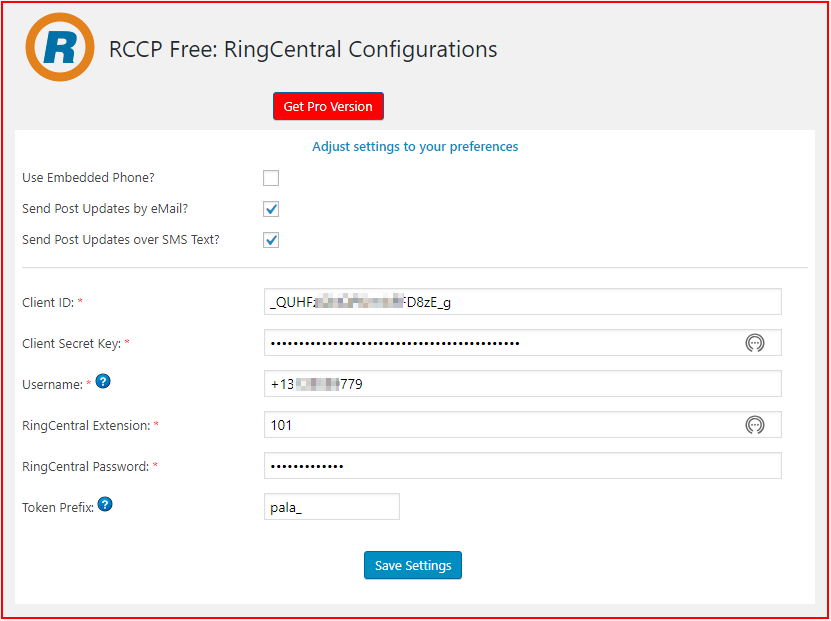
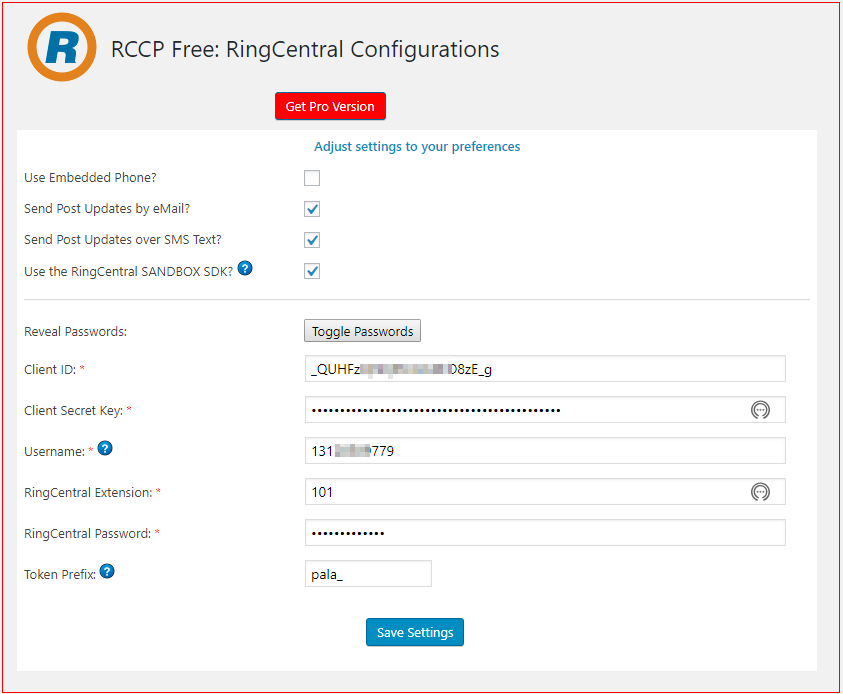
New screen shots, added password toggle
Preparing for submission to WordPress Plugin repo

diff --git a/js/ringcentral-scripts.js b/js/ringcentral-scripts.js
@@ -8,3 +8,25 @@ function isNumberKey(evt){
         return false;
             return true;
 }
+
+function reveal_it() {
+	var x = document.getElementById("myClientSecret");
+    var y = document.getElementById("myRCPassword");    
+	if (x.type === "password") {
+	  x.type = "text";
+	} 
+	if (y.type === "password") {
+		y.type = "text";
+	} 
+}
+
+function hide_it() {
+	var x = document.getElementById("myClientSecret");
+    var y = document.getElementById("myRCPassword");    
+	if (x.type === "text") {	  
+	  x.type = "password";
+	}
+	if (y.type === "text") {
+	    y.type = "password";
+	}
+}

diff --git a/ringcentral.php b/ringcentral.php
@@ -23,9 +23,6 @@ GNU General Public License for more details.
 See License URI for full details.
 */
 
-// error_reporting(E_ALL);
-// ini_set('display_errors', 0);
-
 /* ============================== */
 /* Set RingCental Constant values */
 /* ============================== */
@@ -49,11 +46,6 @@ if(!defined('RINGCENTRAL_PRO_URL')){
 if(!defined('RINGCENTRAL_LOGO')){
     define ('RINGCENTRAL_LOGO', RINGCENTRAL_PLUGINURL . 'images/ringcentral-logo.png' ) ;
 }
-/* ============================================ */
-if(!defined('RINGCENTRAL_SPACER')){
-    $spacer = "<br/>&nbsp; &nbsp; &nbsp; &nbsp; &nbsp; &nbsp; &nbsp; &nbsp; &nbsp; &nbsp; &nbsp; &nbsp; " ;
-    define ('RINGCENTRAL_SPACER', $spacer) ;
-}
 
 /* ================================= */
 /* set ring central supporting cast  */
@@ -70,9 +62,6 @@ function ringcentral_css_add_script() {
 }
 
 add_action('init', 'ringcentral_css_add_script');
-
-// call add action func on menu building function above.
-add_action('admin_menu', 'ringcentral_menu'); 
 
 /* ========================================= */
 /* Make top level menu                       */
@@ -125,6 +114,10 @@ function ringcentral_menu(){
 /* ========================================= */
 /* page / menu calling functions             */
 /* ========================================= */
+
+// call add action func on menu building function above.
+add_action('admin_menu', 'ringcentral_menu');
+
 // function for default Admin page
 function ringcentral_config_page() {
     // check user capabilities
